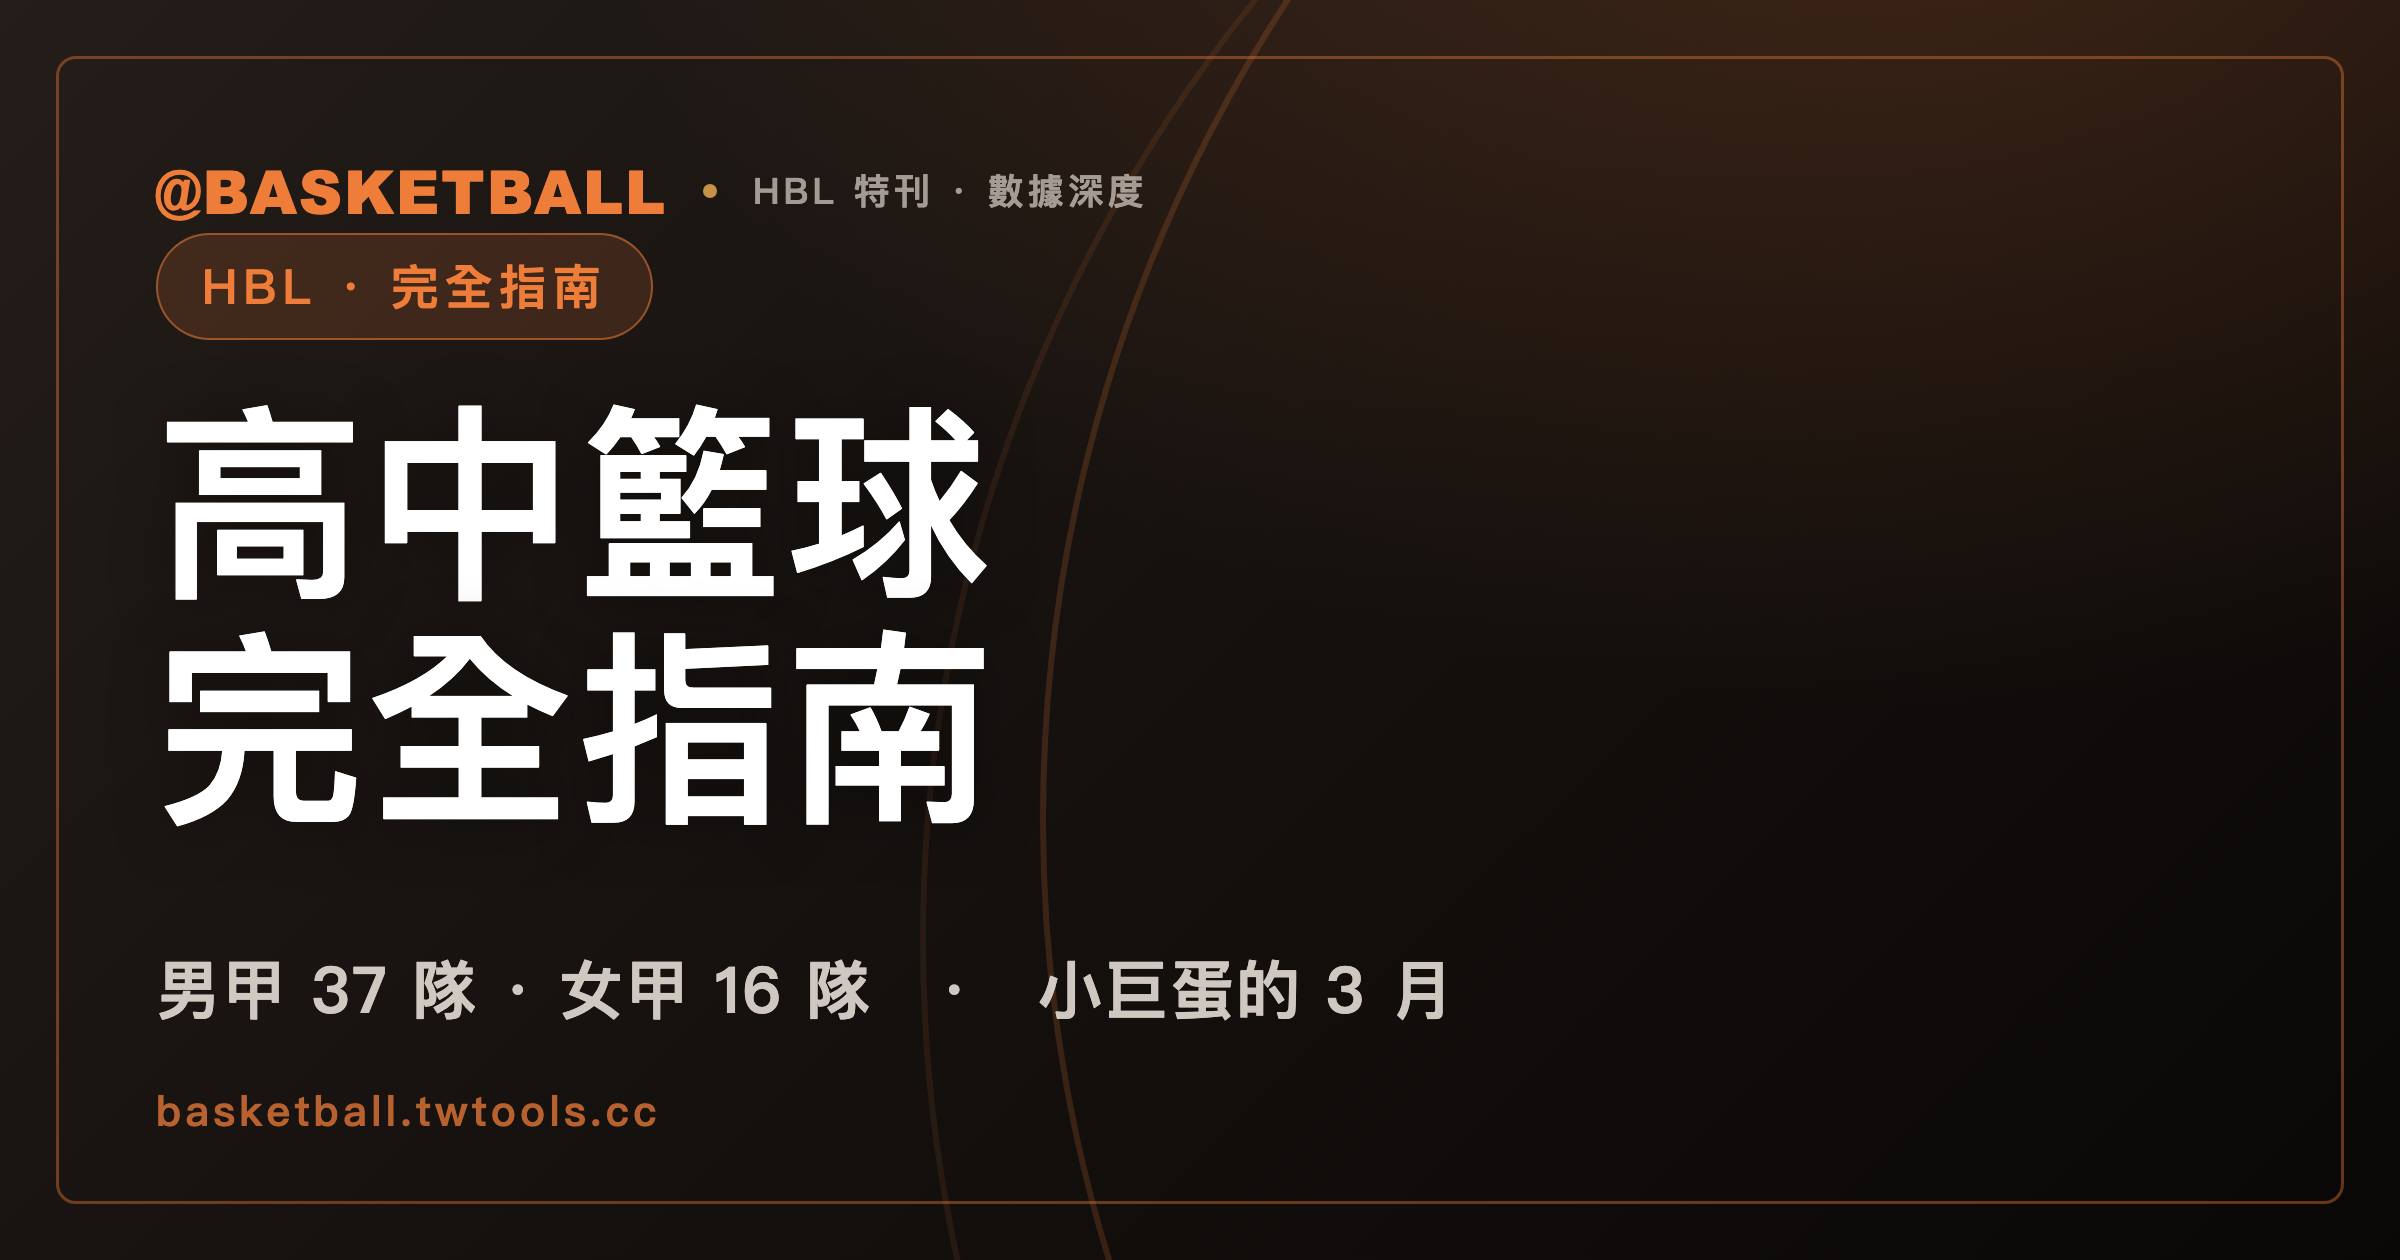
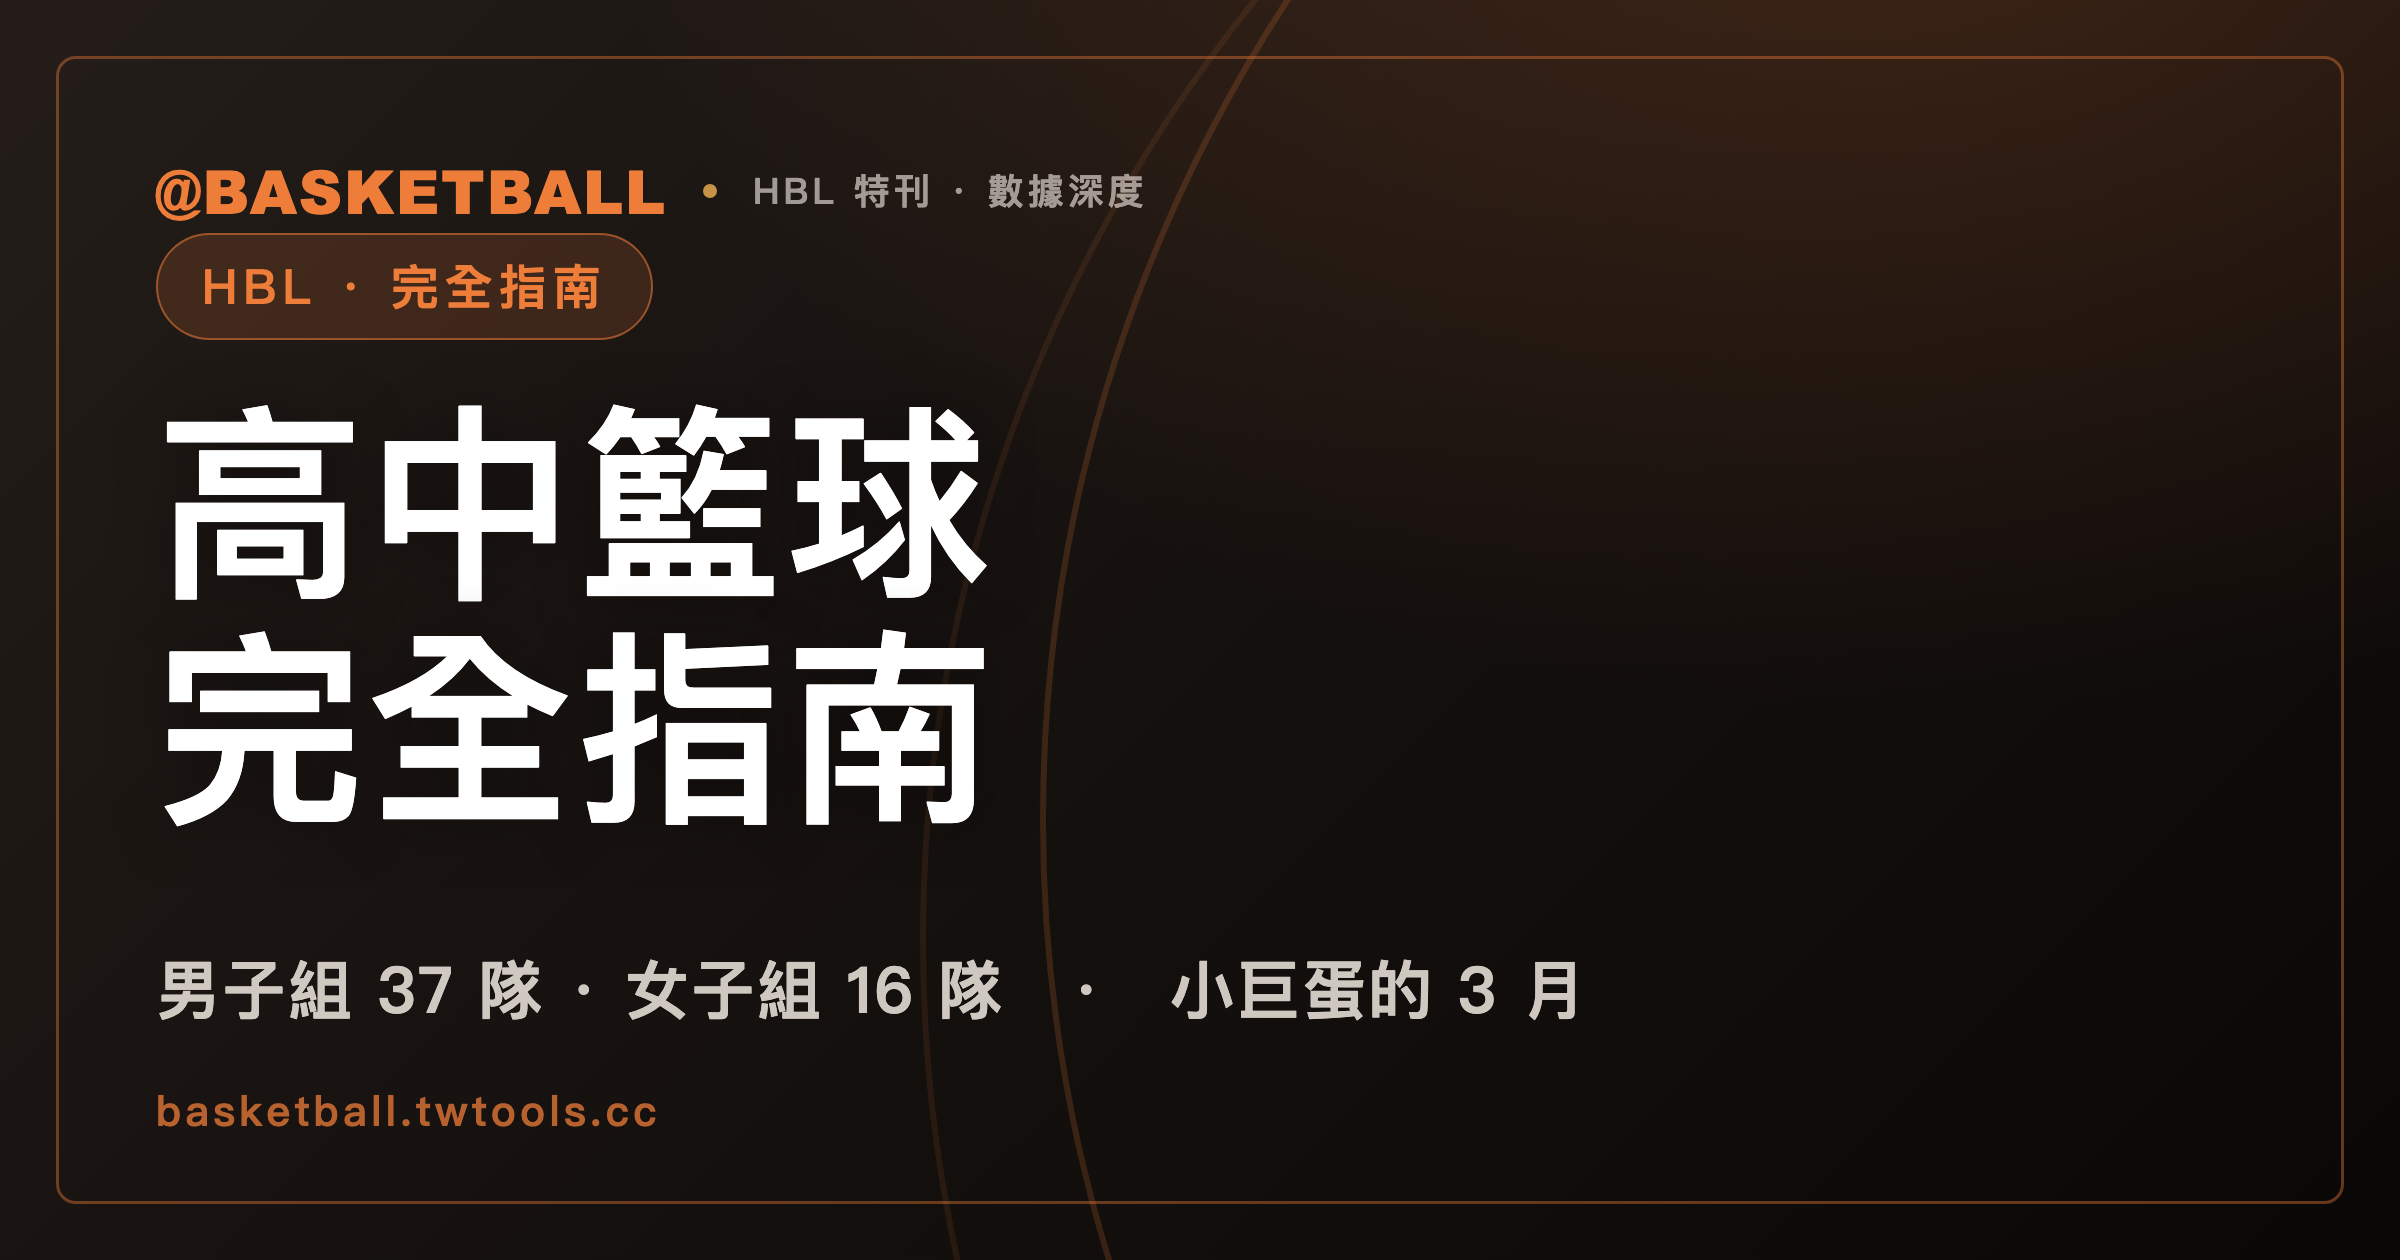
fix: HBL 封面用語統一成文章自己的說法（男甲→男子組） (#25)
封面主張錨定 gate 上線後抓到的第一個真問題：封面寫「男甲 37 隊 · 女甲 16 隊」，
但文章從頭到尾用「男子組」（14 次）與「女子組」（19 次），從沒出現過「男甲」。
數字 37／16 都錨得到文章（「男子組共有 37 隊」），所以不是事實問題，是用語不一致——
讀者從封面點進來會看到兩套稱呼。Charlie 裁「統一」。

- COVERS：男甲 37 隊 · 女甲 16 隊 → 男子組 37 隊 · 女子組 16 隊
- 重生 cover.png 並目檢（文字正確、排版未溢出）
- RHETORIC 撤除「男甲」「女甲」兩條登記

登記簿從 5 條降到 3 條。**能改就別登記**——登記是給改不掉的修辭用的，
不是給「懶得改」用的，否則登記簿會單向膨脹成掩蓋器（gate 腐蝕 ① 型）。
這條理由已寫進 RHETORIC 的註解。

自我測試同步更新：陽性 3／陰性 2 原本拿「男甲」當樣本，撤登記後會空轉，
改用仍在登記簿裡的「換了隊」。基線 0 命中、4 陽性 4 陰性全過。

Changed region(s): [[0.0938, 0.7429, 0.6562, 0.8048]]

diff --git a/scripts/check-cover-claims.py b/scripts/check-cover-claims.py
@@ -66,11 +66,9 @@ RHETORIC = {
     "taiwan-hoops-two-leagues": {
         "始末": "摘要名詞。文章講的是同一件事（「破局」出現 9 次、「合併破局」4 次），封面用總括說法。",
     },
-    "hbl-league-guide": {
-        "男甲": "通行簡稱＝男子甲級組。⚠文章一貫用「男子組」＋「甲級」，從未出現「男甲」；"
-                "數字 37 隊有錨到文章，屬用語不一致非事實問題，是否統一由 Charlie 裁。",
-        "女甲": "同上，＝女子甲級組；文章用「女子組」。",
-    },
+    # hbl-league-guide 原本登記「男甲／女甲」＝通行簡稱。2026-08-11 Charlie 裁「統一」，
+    # 封面改用文章自己的用語（男子組／女子組），登記隨之撤除——**能改就別登記**，
+    # 登記是給改不掉的修辭用的，不是給「懶得改」用的（否則登記簿會單向膨脹成掩蓋器）。
     "nba-2026-draft-results": {
         "換了隊": "口語化改寫。文章用「交易」（70 次）與「易主」（5 次）講同一件事，"
                   "承重數字「27 個」已錨到文章。",
@@ -244,12 +242,13 @@ def self_test():
     print(f"  {'✓ 抓到' if hit else '✗ 沒抓到'}（命中 {len(v2)} 項）")
     ok &= hit
 
-    print("\n【陽性 3】登記制不是萬用赦免：已登記「男甲」的那篇改寫別的未錨定主張")
-    probe = [(s, k, t, "男甲 37 隊 · 女甲 16 隊　·　史上最爛賽制" if s == "hbl-league-guide" else sub)
+    print("\n【陽性 3】登記制不是萬用赦免：已登記「換了隊」的那篇改寫別的未錨定主張")
+    probe = [(s, k, "60 個順位<br>27 個換了隊" if s == "nba-2026-draft-results" else t,
+              "史上最爛梯隊　·　兩輪逐一列出" if s == "nba-2026-draft-results" else sub)
              for s, k, t, sub in covers]
     v3, a3 = check(probe, verbose=False)
-    hit = any(x[0] == "hbl-league-guide" for x in v3)
-    still_reg = any(x[2] == "男甲" for x in a3)
+    hit = any(x[0] == "nba-2026-draft-results" for x in v3)
+    still_reg = any(x[2] == "換了隊" for x in a3)
     print(f"  {'✓ 抓到新主張' if hit else '✗ 沒抓到'}；"
           f"{'同篇既有登記仍生效' if still_reg else '⚠ 登記被連坐失效'}（命中 {len(v3)} 項）")
     ok &= hit and still_reg
@@ -268,7 +267,7 @@ def self_test():
     print(f"  {'✓ 未亮紅' if not nelson else '✗ 假陽性 ' + str(nelson)}")
     ok &= not nelson
 
-    print("\n【陰性 2】已登記修辭（男甲／始末等）走登記路徑、不算違規")
+    print("\n【陰性 2】已登記修辭（始末／換了隊等）走登記路徑、不算違規")
     v5, a5 = check(covers, verbose=False)
     reg = {x[2] for x in a5}
     print(f"  {'✓ 登記生效：' + '、'.join(sorted(reg)) if reg and not v5 else '✗ ' + str(v5 or '登記未生效')}")

diff --git a/scripts/gen-basketball-cover.py b/scripts/gen-basketball-cover.py
@@ -34,7 +34,7 @@ COVERS = [
      "TPBL 7 隊 × PLG 4 隊　·　合併破局始末"),
     ("hbl-league-guide", "HBL · 完全指南",
      "高中籃球<br>完全指南",
-     "男甲 37 隊 · 女甲 16 隊　·　小巨蛋的 3 月"),
+     "男子組 37 隊 · 女子組 16 隊　·　小巨蛋的 3 月"),
     ("nba-2025-26-season-review", "2025-26 · 賽季回顧",
      "尼克<br>53 年再奪冠",
      "總冠軍賽 4:1 勝馬刺　·　東西區終局全紀錄"),
